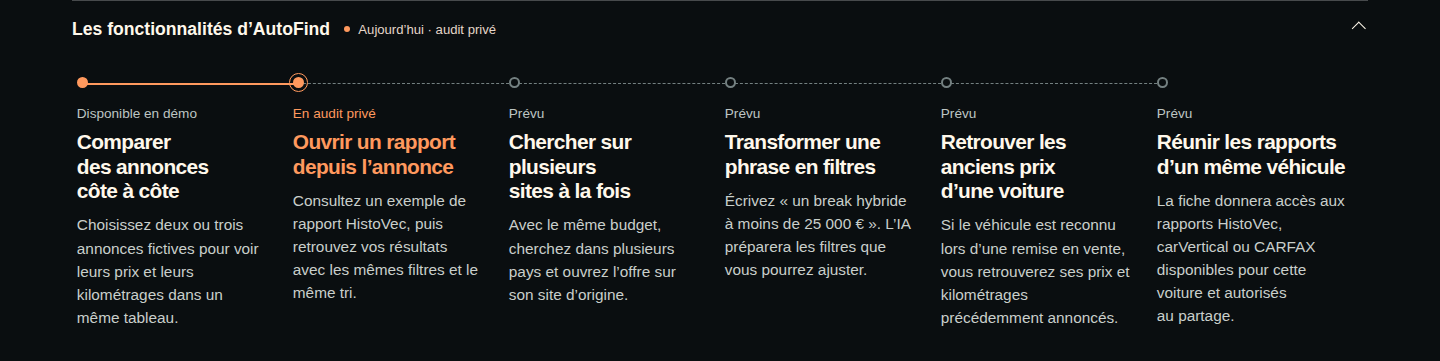
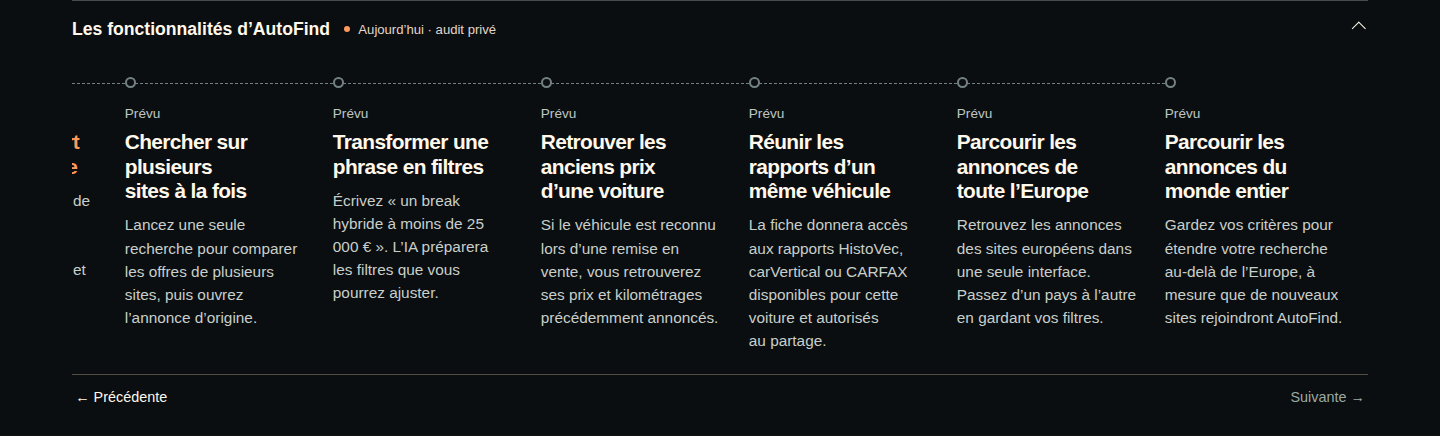
Distinguer la navigation européenne et mondiale dans la frise AutoFind

diff --git a/infra/private-web/templates/launch.html b/infra/private-web/templates/launch.html
@@ -111,6 +111,8 @@ details[open] .chevron {transform:rotate(225deg)}
   .milestones li:nth-child(4) {--delay:225ms}
   .milestones li:nth-child(5) {--delay:300ms}
   .milestones li:nth-child(6) {--delay:375ms}
+  .milestones li:nth-child(7) {--delay:450ms}
+  .milestones li:nth-child(8) {--delay:525ms}
   details[open] .chapter {animation:resolve .3s ease-out var(--delay) both}
   details[open] .milestones li::after {animation:draw .22s ease-out var(--delay) both}
 }
@@ -146,10 +148,12 @@ details[open] .chevron {transform:rotate(225deg)}
 <ol class="milestones" role="list">
 <li><div class="chapter"><small>Disponible en démo</small><h3>Comparer des annonces côte à côte</h3><p>Choisissez deux ou trois annonces fictives pour voir leurs prix et leurs kilométrages dans un même tableau.</p></div></li>
 <li aria-current="step"><div class="chapter"><small>En audit privé</small><h3>Ouvrir un rapport depuis l’annonce</h3><p>Consultez un exemple de rapport HistoVec, puis retrouvez vos résultats avec les mêmes filtres et le même tri.</p></div></li>
-<li><div class="chapter"><small>Prévu</small><h3>Chercher sur plusieurs sites à la fois</h3><p>Avec le même budget, cherchez dans plusieurs pays et ouvrez l’offre sur son site d’origine.</p></div></li>
+<li><div class="chapter"><small>Prévu</small><h3>Chercher sur plusieurs sites à la fois</h3><p>Lancez une seule recherche pour comparer les offres de plusieurs sites, puis ouvrez l’annonce d’origine.</p></div></li>
 <li><div class="chapter"><small>Prévu</small><h3>Transformer une phrase en filtres</h3><p>Écrivez « un break hybride à moins de 25 000 € ». L’IA préparera les filtres que vous pourrez ajuster.</p></div></li>
 <li><div class="chapter"><small>Prévu</small><h3>Retrouver les anciens prix d’une voiture</h3><p>Si le véhicule est reconnu lors d’une remise en vente, vous retrouverez ses prix et kilométrages précédemment annoncés.</p></div></li>
 <li><div class="chapter"><small>Prévu</small><h3>Réunir les rapports d’un même véhicule</h3><p>La fiche donnera accès aux rapports HistoVec, carVertical ou CARFAX disponibles pour cette voiture et autorisés au partage.</p></div></li>
+<li><div class="chapter"><small>Prévu</small><h3>Parcourir les annonces de toute l’Europe</h3><p>Retrouvez les annonces des sites européens dans une seule interface. Passez d’un pays à l’autre en gardant vos filtres.</p></div></li>
+<li><div class="chapter"><small>Prévu</small><h3>Parcourir les annonces du monde entier</h3><p>Gardez vos critères pour étendre votre recherche au-delà de l’Europe, à mesure que de nouveaux sites rejoindront AutoFind.</p></div></li>
 </ol></div>
 <div class="road-nav" hidden>
 <button type="button" aria-controls="road-track" aria-label="Fonctionnalité précédente"><span aria-hidden="true">←</span> Précédente</button>

diff --git a/docs/validation/TASK-0133.md b/docs/validation/TASK-0133.md
@@ -1,13 +1,17 @@
 # TASK-0133 — Frise de l’accueil AutoFind
 
-[Brief](../../roadmap/tasks/TASK-0133-frise-accueil.md). La photo de l’accueil reste visible après le retrait de sa légende. Le dépliant présente six fonctionnalités dans l’ordre de leur disponibilité. L’exemple de rapport en audit privé porte le repère `aria-current="step"`. Les quatre fonctions futures portent la mention « Prévu ».
+[Brief](../../roadmap/tasks/TASK-0133-frise-accueil.md). La photo de l’accueil reste visible après le retrait de sa légende. Le dépliant présente huit fonctionnalités dans l’ordre de leur disponibilité. L’exemple de rapport en audit privé porte le repère `aria-current="step"`. Les six fonctions futures portent la mention « Prévu ».
 
-[WebKit mobile, 390 px, fonctionnalité en audit](TASK-0133/etapes-mobile.png) · [Chromium bureau, 1440 px, six fonctionnalités](TASK-0133/etapes-bureau.png).
+[WebKit mobile, 390 px, jalon mondial](TASK-0133/etapes-mobile.png) · [Chromium bureau, 1440 px, jalons Europe et monde](TASK-0133/etapes-bureau.png).
 
 ## Deuxième retour d’audit du propriétaire
 
-L’axe est horizontal à toutes les largeurs. Les six points s’alignent de gauche à droite. Le balayage est natif et limité à la frise. Quand celle-ci dépasse la largeur disponible, les commandes Précédente et Suivante permettent aussi de parcourir les fonctions au clavier. Le dépliant et le défilement natif restent utilisables sans JavaScript. Le tracé et les textes apparaissent en moins d’une seconde. Le mouvement réduit supprime ces animations.
+L’axe est horizontal à toutes les largeurs. Les points s’alignent de gauche à droite. Le balayage est natif et limité à la frise. Quand celle-ci dépasse la largeur disponible, les commandes Précédente et Suivante permettent aussi de parcourir les fonctions au clavier. Le dépliant et le défilement natif restent utilisables sans JavaScript. Le tracé et les textes apparaissent en moins d’une seconde. Le mouvement réduit supprime ces animations.
 
 Le build privé passe ses cinq tâches. La recette HTTPS du dépôt sur Chromium et WebKit vérifie l’alignement, les extrémités et le retour, la lecture à 320 px avec texte à 200 % et JavaScript coupé, la connexion, le rapport B2 et la révocation. Le premier essai s’est arrêté sur un build local antérieur au lecteur de rapports. La recette a été rejouée sur le build intégré. La revue indépendante a confirmé les fonctionnalités, la navigation après expiration du compteur et le clavier sans JavaScript. Elle a relevé un débordement de 25 px du titre agrandi. La colonne du dépliant autorise désormais le retour à la ligne. Le contrôle final mesure une page de 320 px sur les deux moteurs.
+
+## Extension géographique de la frise
+
+Le retour suivant du propriétaire ajoute deux étapes après les six fonctionnalités précédentes. L’étape Europe réunit les sites européens dans une seule interface et conserve les filtres entre pays. L’étape monde étend la recherche au fil de l’intégration des sites. Ces deux déblocages sont prévus. La nouvelle recette HTTPS sur les deux moteurs vérifie leur ordre, le parcours au clavier jusqu’au huitième jalon et l’accès à son titre sans JavaScript à 320 px et 200 %. La revue indépendante du texte et des captures est favorable.
 
 Le statut source et main figure dans la PR. Les captures proviennent de la recette temporaire. Le déploiement doit installer ensemble le template et le script d’accueil validés.

diff --git a/roadmap/tasks/TASK-0133-frise-accueil.md b/roadmap/tasks/TASK-0133-frise-accueil.md
@@ -2,7 +2,7 @@
 
 Audit visuel du propriétaire, voie produit sur product/0133-frise-accueil, base 2672b708. Responsable Codex gpt-6.2-astra / ultra. Dépendances livrées par PR262, PR263 et PR265. Coûts non mesurés.
 
-Depuis l’accueil public, déplier la frise au clavier ou au toucher, repérer l’audit en cours et lire les capacités déjà disponibles sur exemples puis les ouvertures prévues. Retirer la légende du modèle, conserver le visuel. Utiliser le dépliant natif de TASK-0131 et la palette AutoFind. Le calendrier d’intégration des sources reste prévisionnel.
+Depuis l’accueil public, déplier la frise au clavier ou au toucher, repérer l’audit en cours et lire les capacités déjà disponibles sur exemples puis les ouvertures prévues. Retirer la légende du modèle, conserver le visuel. Utiliser le dépliant natif de TASK-0131 et la palette AutoFind. Les deux derniers déblocages sont géographiques. L’acheteur pourra parcourir les annonces de toute l’Europe dans une seule interface, puis étendre sa recherche au monde entier. Le calendrier d’intégration des sources reste prévisionnel.
 
 Le propriétaire précise que l’axe reste horizontal à toute largeur. Chaque titre décrit une action d’acheteur. Sur téléphone, la frise seule défile au toucher ou au clavier. Les annonces et documents de l’audit sont explicitement fictifs.
 
